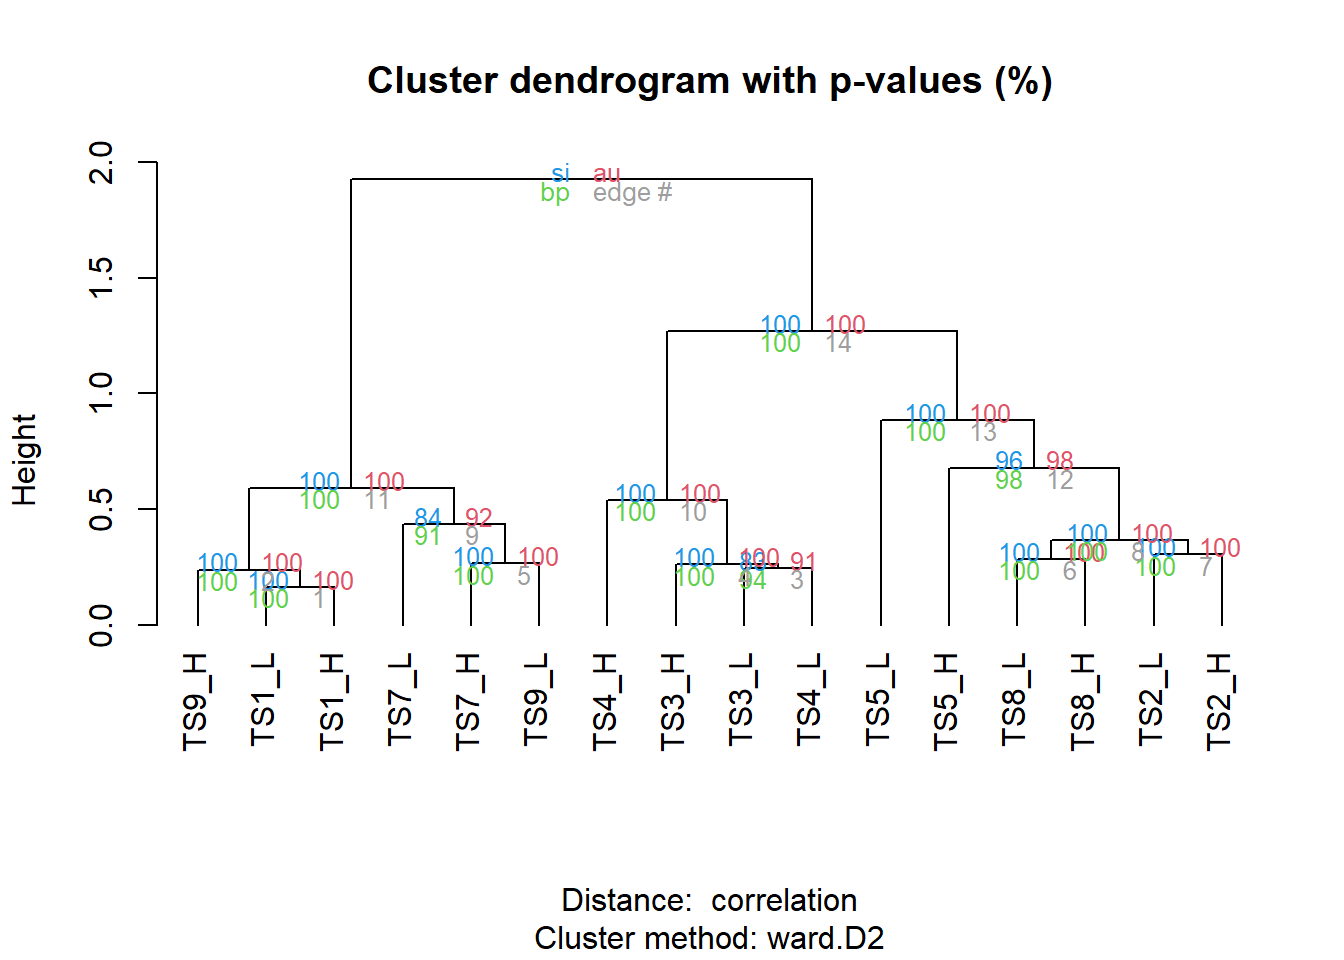
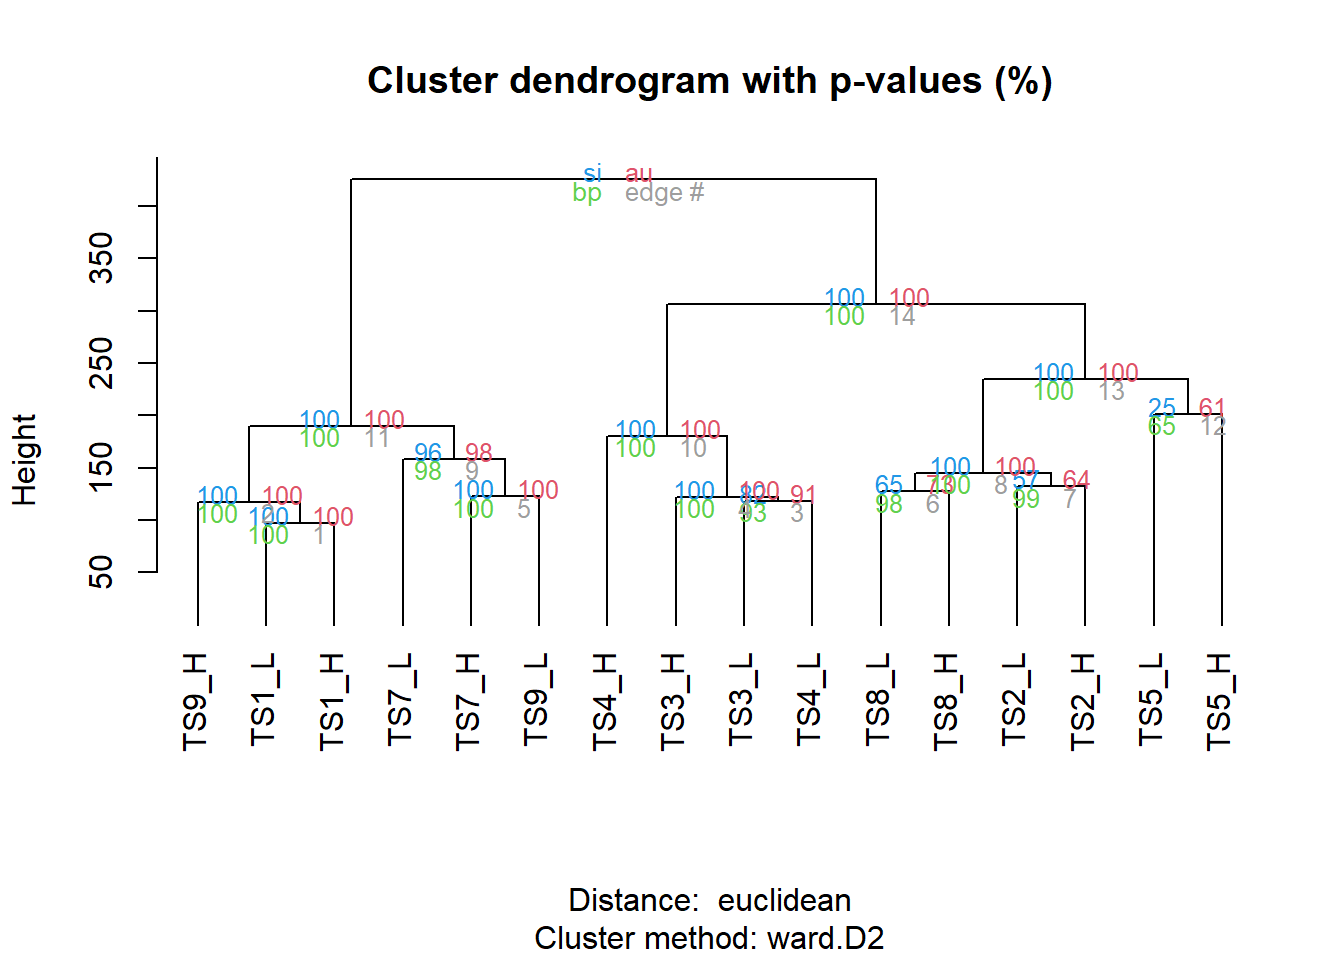
Unblinding analysis

diff --git a/docs/5_unblinding.html b/docs/5_unblinding.html
@@ -360,11 +360,12 @@ div.tocify {
 <table>
 <caption>Table 5.1: Cefic MATCHING unblinded test substances</caption>
 <colgroup>
-<col width="4%" />
-<col width="30%" />
+<col width="3%" />
+<col width="21%" />
+<col width="8%" />
+<col width="25%" />
 <col width="12%" />
-<col width="35%" />
-<col width="17%" />
+<col width="28%" />
 </colgroup>
 <thead>
 <tr class="header">
@@ -373,6 +374,7 @@ div.tocify {
 <th align="left">CAS No.</th>
 <th align="left">MOA</th>
 <th align="left">Effect strength</th>
+<th align="left">Label name</th>
 </tr>
 </thead>
 <tbody>
@@ -382,6 +384,7 @@ div.tocify {
 <td align="left">50892-23-4</td>
 <td align="left">Peroxisome proliferation (PP)</td>
 <td align="left">Strong</td>
+<td align="left">Wy 14643 (PP +++)</td>
 </tr>
 <tr class="even">
 <td align="left">TS7</td>
@@ -389,6 +392,7 @@ div.tocify {
 <td align="left">15165-67-0</td>
 <td align="left">Peroxisome proliferation (PP)</td>
 <td align="left">Moderate</td>
+<td align="left">Dichlorprop-p (PP ++)</td>
 </tr>
 <tr class="odd">
 <td align="left">TS9</td>
@@ -396,6 +400,7 @@ div.tocify {
 <td align="left">49562-28-9</td>
 <td align="left">Peroxisome proliferation (PP)</td>
 <td align="left">Strong</td>
+<td align="left">Fenofibrate (PP +++)</td>
 </tr>
 <tr class="even">
 <td align="left">TS3</td>
@@ -403,6 +408,7 @@ div.tocify {
 <td align="left">58-18-4</td>
 <td align="left">Androgen receptor activity (AR)</td>
 <td align="left">Strong</td>
+<td align="left">17-alpha-Methyltestosterone (AR +++)</td>
 </tr>
 <tr class="odd">
 <td align="left">TS4</td>
@@ -410,6 +416,7 @@ div.tocify {
 <td align="left">10161-33-8</td>
 <td align="left">Androgen receptor activity (AR)</td>
 <td align="left">Strong</td>
+<td align="left">Trenbolone (AR +++)</td>
 </tr>
 <tr class="even">
 <td align="left">TS2</td>
@@ -417,6 +424,7 @@ div.tocify {
 <td align="left">635-22-3</td>
 <td align="left">Anemia</td>
 <td align="left">Moderate</td>
+<td align="left">4-Chloro-3-nitroaniline (Anemia ++)</td>
 </tr>
 <tr class="odd">
 <td align="left">TS5</td>
@@ -424,6 +432,7 @@ div.tocify {
 <td align="left">62-53-3</td>
 <td align="left">Anemia</td>
 <td align="left">Moderate</td>
+<td align="left">Aniline (Anemia ++)</td>
 </tr>
 <tr class="even">
 <td align="left">TS8</td>
@@ -431,6 +440,7 @@ div.tocify {
 <td align="left">95-51-2</td>
 <td align="left">Anemia</td>
 <td align="left">Weak</td>
+<td align="left">2-Chloroaniline (Anemia +)</td>
 </tr>
 </tbody>
 </table>
@@ -445,22 +455,65 @@ summary</div>
 </div>
 <div id="t-stat---hca---unblinded" class="section level1">
 <h1>t-stat - HCA - unblinded</h1>
-<pre class="r"><code># tstats &lt;- read.csv(&#39;data/combined_male_tstats.csv&#39;, row.names = 1)
-# tstats_scaled &lt;- scale(tstats, center=FALSE, scale=TRUE)
-# 
-# 
-# library(pvclust)
-# pvclust_res &lt;- pvclust(tstats_scaled, method.hclust = &quot;ward.D2&quot;, nboot=1000)
-# 
-# 
-#   
-# plot(pvclust_res, c(&quot;si&quot;, &quot;au&quot;, &quot;bp&quot;), hang=-1)
-# pp = pvpick(pvclust_res, alpha=0.05, pv=&quot;si&quot;, type=&quot;geq&quot;, max.only=TRUE)</code></pre>
+<pre class="r"><code>library(pvclust)
+tstats &lt;- read.csv(&#39;data/combined_male_tstats.csv&#39;, row.names = 1)
+unblinded_names &lt;- read.csv(file.path(root, &#39;data/unblinded_ordered_names.csv&#39;), header = TRUE)
+colnames(tstats) &lt;- unblinded_names$full_label
+
+tstats_scaled &lt;- scale(tstats, center=FALSE, scale=TRUE)
+
+pvclust_res &lt;- pvclust(tstats_scaled, method.dist=&quot;euclidean&quot;, method.hclust = &quot;ward.D2&quot;,  nboot=100)</code></pre>
+<pre><code>## Bootstrap (r = 0.5)... Done.
+## Bootstrap (r = 0.6)... Done.
+## Bootstrap (r = 0.7)... Done.
+## Bootstrap (r = 0.8)... Done.
+## Bootstrap (r = 0.9)... Done.
+## Bootstrap (r = 1.0)... Done.
+## Bootstrap (r = 1.1)... Done.
+## Bootstrap (r = 1.2)... Done.
+## Bootstrap (r = 1.3)... Done.
+## Bootstrap (r = 1.4)... Done.</code></pre>
+<pre class="r"><code>plot(pvclust_res, c(&quot;si&quot;, &quot;au&quot;, &quot;bp&quot;), hang=-1)</code></pre>
+<p><img src="5_unblinding_files/figure-html/HCA-1.png" width="768" /></p>
+</div>
+<div id="t-stat---pca---unblinded" class="section level1">
+<h1>t-stat - PCA - unblinded</h1>
+<p>We can also represent the data using PCA</p>
+<pre class="r"><code>library(ggplot2)
+# transpose as features should be columns
+tstats_scaled_t &lt;- data.frame(t(tstats_scaled))
+
+# Simply giving missing values a value of zero (but in practice this should be looked into more
+# closely and missing value imputed approaches can be used
+tstats_scaled_t[is.na(tstats_scaled_t)] &lt;- 0
+
+# remove features with no response
+tstats_scaled_t_rm0 &lt;- tstats_scaled_t[, colSums(tstats_scaled_t != 0) &gt; 0]
+
+# Run PCA
+pca_tstats &lt;- prcomp(tstats_scaled_t_rm0, center = TRUE, scale. = TRUE)
+summ &lt;- summary(pca_tstats)
+tstats_scaled_t_rm0$full_label &lt;- rownames(tstats_scaled_t_rm0)
+
+pca_df &lt;- data.frame(cbind(pca_tstats$x[,1:2], unblinded_names))
+
+# Plot the PCA
+ggplot(pca_df, aes(PC1, PC2, color=moa, label=moa)) + 
+   geom_text(aes(label = compound_name_dose), hjust = 0.5,  vjust = -1) +
+   geom_point(aes(color=moa)) +
+   stat_ellipse(geom = &quot;polygon&quot;, aes(fill = after_scale(alpha(colour, 0.3))))+
+   scale_colour_manual(values=c(&quot;orange&quot;,&quot;black&quot;,&quot;blue&quot;))+
+   xlab(paste(&quot;PC1 (&quot;, round(summ$importance[2,1]*100,1), &quot;%)&quot;, sep=&#39;&#39;)) +
+   ylab(paste(&quot;PC2 (&quot;, round(summ$importance[2,2]*100,1), &quot;%)&quot;, sep=&#39;&#39;)) +
+    
+   theme_bw()</code></pre>
+<p><img src="5_unblinding_files/figure-html/PCA-1.png" width="768" /></p>
 </div>
 <div id="chemical-grouping-using-structure-only" class="section level1">
 <h1>Chemical grouping using structure only</h1>
-<!-- ![Fig 4.2. Cefic MATCHING compound PCA (MACCS fingerprints)](cefic_matching_compounds_pca_maccs.png){width=400px} -->
-<!-- &nbsp; -->
+<p>Lets compare this with the grouping using chemical structure only.
+See below for the same HCA approach but instead of using t-statistics
+for the grouping we are using</p>
 <div class="float">
 <img src="cefic_matching_compounds_hca_maccs.png"
 alt="Fig 5.2. Cefic MATCHING compound HCA (MACCS fingerprints)" />

diff --git a/docs/3_stats.html b/docs/3_stats.html
@@ -424,9 +424,8 @@ autoplot(pca_no_qcs, x=1, y=2, data=sample_metadata_no_qcs, colour=&quot;test_su
 <p><img src="3_stats_files/figure-html/hilic_pos_glog_pca_plot-1.png" width="672" /></p>
 <blockquote>
 <p>Whilst the above is useful and we can begin to see groups emerging -
-we are really interested in how similar each test substance compared to
-the control. So lets perform comparisons to the control for each
-condition</p>
+we are really interested in how similar each test substance treatment is
+compared to the control. So let’s look at that in more detail</p>
 </blockquote>
 </div>
 <div id="student-t-test" class="section level1">
@@ -464,17 +463,27 @@ ttest_out</code></pre>
 ## sample estimates:
 ## mean of x mean of y 
 ##   5568546  15288006</code></pre>
-<p>There are two values we will use later from the from the t-test</p>
+<p>There two key metrics we use are the</p>
 <ul>
 <li><strong>t-statistic (or t-value)</strong></li>
 <li><strong>p-value</strong></li>
 </ul>
 <p>We can use a a few <code>for loops</code> in a <code>function</code>
-to calculate this for all features for a specific test substance.</p>
-<p>Note there are multiple ways to acheive this, for loops are
-straightforward approach that do not require many additional packages
-however other functions and packages (like plyr and tidyr) can be
-used.</p>
+to calculate this for all features for a specific test substance. In
+addition we can calculate the fold change of the mean of treated samples
+Vs the mean of the control samples.</p>
+<blockquote>
+<p><strong>For those new to R and/or programming</strong> - please don’t
+worry about the inner workings of this function!! All it is doing is
+running multiple t-tests for each feature and condition.</p>
+</blockquote>
+<blockquote>
+<p><strong>For those who are more experienced in R</strong> - you might
+be aware that there are multiple ways to achieve the function, for loops
+are just a straightforward approach that do not require many additional
+packages however other functions and packages (like plyr and tidyr) can
+be used to acheive the same result.</p>
+</blockquote>
 <pre class="r"><code>library(reshape2)
 
 ttest_per_test_substance &lt;- function(pqn, sample_metadata, test_substance=2){
@@ -586,19 +595,18 @@ ggplot(data=ttest_ts2, aes(x=log2(fc), y=-log10(qvalue), col=diff)) +
 </div>
 <div id="summary-of-t-tests" class="section level1">
 <h1>Summary of t-tests</h1>
-<p>Rather than do this on all the test substances and all assays in this
-training we have a data file already created with the relevant t-stats
-that we can use for grouping in the next section.</p>
+<p>Rather than repeating this on all the test substances and all assays
+in this training we have a data file already created with the relevant
+t-stats that we can use for grouping in the next section.</p>
 <p>Below though we show a summary of all the t-test analysis done across
-all assays and</p>
-<p>We note here that <strong>multiple testing correction</strong> was
-performed on the p-values to generate q-values.</p>
+all assays.</p>
 <p>This was used as manual check to see if any of the test substance
 treatments were not exhibiting much bioactivity and a such should not be
 included in the grouping analysis.</p>
-<p>It was deemed that for the male data, there was enough bioactivity to
-proceed to grouping without removing any test substance treatments. For
-the the female data however, treatment groups were removed (TSx)</p>
+<p>Following a review of the data. It was deemed that for the male
+component, there was sufficient bioactivity to proceed to grouping
+without removing any test substance treatments. For the the female data
+however, treatment groups were removed.</p>
 <p><img src="ttest_summary.png" /></p>
 </div>
 <div id="references" class="section level1">

diff --git a/docs/6_more_info.html b/docs/6_more_info.html
@@ -355,8 +355,8 @@ div.tocify {
 
 <div id="data-processing-further-details" class="section level1">
 <h1>Data processing further details</h1>
-<p>In brief the following steps were performed:</p>
-<ul>
+<p>The following steps were performed :</p>
+<ol style="list-style-type: decimal">
 <li>Conversion of the RAW mass spectrometry files to open source mzML
 format. And centroiding the full profile of the raw data</li>
 <li>Data reduction: Full scan (MS1) “peak picking”, grouping and any
@@ -365,32 +365,14 @@ rentiontion time correction performed by XCMS software</li>
 <li>Identification and removal (“filtering”) of features</li>
 <li>Identification and removal (“filtering”) of outlying samples</li>
 <li>Normalisation: Using PQN median samples as reference (Dieterle et
-al. 2006))</li>
-</ul>
+al. 2006)</li>
+<li>Missing value imputation (for multivaraite analysis only)</li>
+<li>glog transformations (for multivariate analysis only)</li>
+</ol>
 <p>Noting that for multivariate analysis the methodology would tyically
 undergo an missing value imputation and glog transfromations in addition
 to the above. However, we won’t be considering multivariate analysis on
 the intensity data for the analysis today.</p>
-</div>
-<div id="principal-component-analysis" class="section level1">
-<h1>Principal component analysis</h1>
-<p>Plot with ggplot rather ggfortify</p>
-<pre class="r"><code># library(ggplot2)
-# sample_metadata &lt;- read.csv(&#39;data/m_HILIC_POS_sample_metadata_filtered.csv&#39;)
-# glog &lt;- read.csv(&#39;data/m_HILIC_POS_glog.csv&#39;)
-# # Remove the first column which is just the id of the feature i.e. hilic_pos_glog[,-1]
-# # Then transpose so that samples are rows and features are columns i.e. t(hilic_pos_glog[,-1)
-# glog_t &lt;- t(glog[,-1])
-# 
-# pca &lt;- prcomp(glog_t, center = TRUE, scale. = TRUE)
-# pca_df &lt;- cbind(pca$x[,1:2], sample_metadata)
-# 
-# ggplot(pca_df, aes(PC1, PC2, color=test_substance)) + 
-#   geom_point(aes(shape=dose_group, color=test_substance)) +
-#   stat_ellipse(geom = &quot;polygon&quot;, aes(fill = after_scale(alpha(colour, 0.3))))+
-#   scale_colour_manual(values=c(&quot;khaki&quot;,&quot;black&quot;,&quot;blue&quot;, &#39;red&#39;, &quot;grey&quot;,&#39;orange&#39;, &#39;magenta&#39;, &#39;yellow&#39;, &#39;green&#39;, &#39;brown&#39;, &#39;purple&#39;))+
-#   scale_shape_manual(values=c(4,8,2,0))+
-#   theme_bw()</code></pre>
 </div>
 
 

diff --git a/docs/4_grouping.html b/docs/4_grouping.html
@@ -355,8 +355,12 @@ div.tocify {
 
 <div id="t-statistic-grouping" class="section level1">
 <h1>t-statistic grouping</h1>
-<p>The Michabo Health Science workflow chemical grouping uses the
-control vs condition t-statistics as input.</p>
+<p>We have finally made it to the grouping!</p>
+<p>For the Michabo Health Science workflow grouping we use the
+t-statistic calculated from the previous section.</p>
+<p>The benefit of using the t-statistic rather than for example the fold
+change is that variance is considered when comparing the means of the
+control and treated samples.</p>
 <p>First get root URL for data</p>
 <pre class="r"><code>root &lt;- &#39;https://raw.githubusercontent.com/michabohealthscience/training-fsa/main&#39;</code></pre>
 <pre class="r"><code>tstats &lt;- read.csv(file.path(root, &#39;data/combined_male_tstats.csv&#39;), row.names = 1)</code></pre>
@@ -369,7 +373,7 @@ class="section level1">
 <div id="t-stat---hca" class="section level1">
 <h1>t-stat - HCA</h1>
 <pre class="r"><code>library(pvclust)
-pvclust_res &lt;- pvclust(tstats_scaled, method.hclust = &quot;ward.D2&quot;, nboot=100)</code></pre>
+pvclust_res &lt;- pvclust(tstats_scaled, method.dist=&quot;euclidean&quot;, method.hclust = &quot;ward.D2&quot;, nboot=100)</code></pre>
 <pre><code>## Bootstrap (r = 0.5)... Done.
 ## Bootstrap (r = 0.6)... Done.
 ## Bootstrap (r = 0.7)... Done.
@@ -382,7 +386,6 @@ pvclust_res &lt;- pvclust(tstats_scaled, method.hclust = &quot;ward.D2&quot;, nb
 ## Bootstrap (r = 1.4)... Done.</code></pre>
 <pre class="r"><code>plot(pvclust_res, c(&quot;si&quot;, &quot;au&quot;, &quot;bp&quot;), hang=-1)</code></pre>
 <p><img src="4_grouping_files/figure-html/HCA-1.png" width="672" /></p>
-<pre class="r"><code>pp = pvpick(pvclust_res, alpha=0.05, pv=&quot;si&quot;, type=&quot;geq&quot;, max.only=TRUE)</code></pre>
 </div>
 <div id="references" class="section level1">
 <h1>References</h1>

diff --git a/docs/1_data_processing.html b/docs/1_data_processing.html
@@ -408,9 +408,6 @@ high-resolution mass spectrometry with Ultra-high-performance liquid
 chromatography - UHPLC-MS) is an effective and popular approach for
 metabolomics and is what was used for data we are using for this
 tutorial.</p>
-<p>Gas-phase mass spectrometry based fragmentation was also collected
-for metabolite annotation purposes, however that is not covered within
-this tutorial.</p>
 <p>Full details of the methods found in the <a
 href="https://www.ncbi.nlm.nih.gov/pmc/articles/PMC10944399/bin/204_2024_3680_MOESM1_ESM.pdf">supplemental
 of Cefic MATCHING publication</a> <span class="citation">(<a
